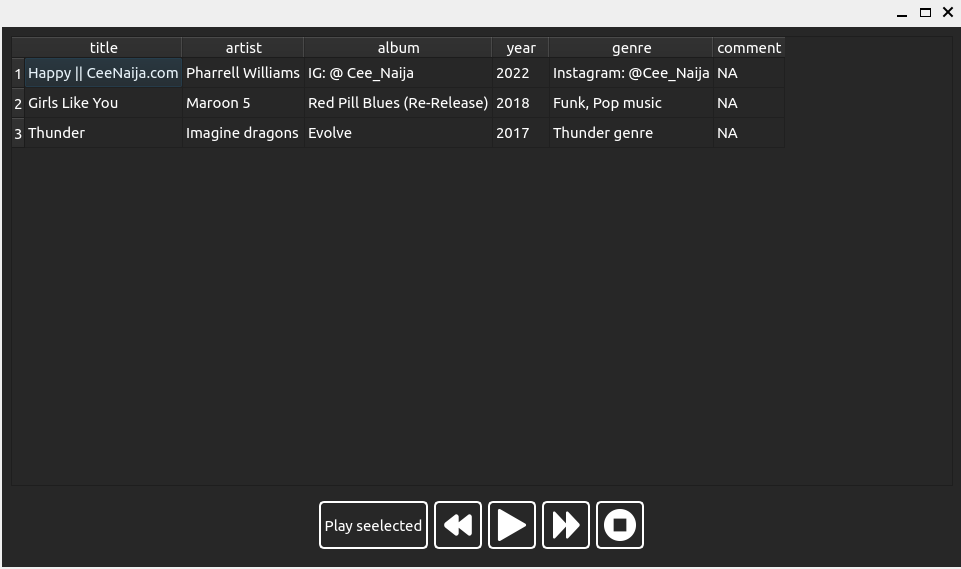
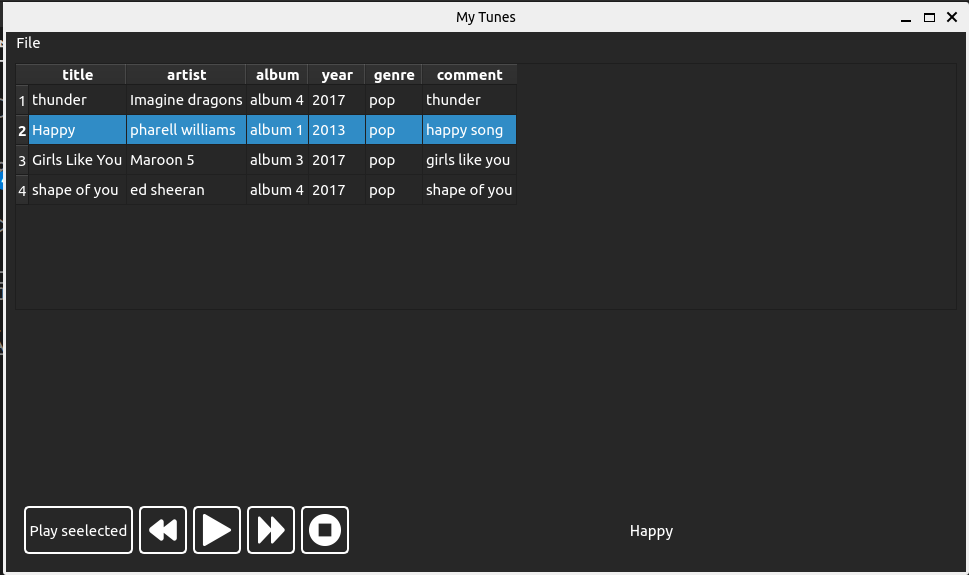
- Added the themes of qt material to the application - Ensuring that content in table widget is always in sentence case

Changed region(s): [[0.0, 0.0, 1.0, 1.0], [0.7492, 0.1793, 0.7804, 0.239], [0.3746, 0.3286, 0.4058, 0.3585]]

diff --git a/src/ui/mainwindow.py b/src/ui/mainwindow.py
@@ -1,5 +1,7 @@
-from PyQt5.QtWidgets import QMainWindow, QMenu, QAction, QMenuBar, QApplication, QFileDialog
+from PyQt5.QtWidgets import QMainWindow, QMenu, QAction, QMenuBar, QApplication
 from PyQt5.QtGui import QFontDatabase
+
+from qt_material import apply_stylesheet, list_themes
 
 from ui.mainwidget import MainWidget
 
@@ -57,12 +59,27 @@ class MainWindow(QMainWindow):
 
         self.menubar.addMenu(self.fileMenu)
 
+        self.themeMenu = QMenu("Theme")
+
+        self.themeActions = []
+        
+        for themeName in list_themes():
+            self.themeActions.append(QAction(themeName))
+            self.themeMenu.addAction(self.themeActions[-1])
+            self.themeActions[-1].triggered.connect(lambda _, x=themeName : self.setTheme(x))
+
+        self.menubar.addMenu(self.themeMenu)
+
         self.setMenuBar(self.menubar)
 
         self.openSongAction.triggered.connect(self.mainWidget.openAndPlayAMp3)
         self.exitAppAction.triggered.connect(self.closeAppMenuAction)
         self.addSongAction.triggered.connect(self.mainWidget.addSong)
         self.deleteSongAction.triggered.connect(self.mainWidget.deleteSong)
+
+    def setTheme(self, theme):
+        apply_stylesheet(self.app, theme)
+        self.mainWidget.topWidget.resizeColumnsToContents()
 
     def closeAppMenuAction(self):
         self.closeEvent(0)

diff --git a/src/ui/topwidget.py b/src/ui/topwidget.py
@@ -19,6 +19,7 @@ class TopWidget(QTableWidget):
         self.cellClicked.connect(self.handleCellClicked)
         self.setAcceptDrops(True)
         self.setSizePolicy(QSizePolicy.Expanding, QSizePolicy.Expanding)
+        self.setSelectionMode(QTableWidget.SingleSelection)
 
     def refreshPage(self, songs):
         self.songs = songs
@@ -37,10 +38,10 @@ class TopWidget(QTableWidget):
             songDataFromDatabase = self.databaseObject.getSongData(song)
 
             if len(songDataFromDatabase) != 0:
-                self.labelNames.append(songDataFromDatabase[0])
+                self.labelNames.append([x.capitalize() for x in songDataFromDatabase[0]])
                 toWrite = songDataFromDatabase[0]
             else:
-                songDataFromFile = MusicEventHandler.getSongData(song)
+                songDataFromFile = [x.capitalize() for x in MusicEventHandler.getSongData(song)]
                 self.databaseObject.writeSongDataToTable(song, *songDataFromFile)
                 self.labelNames.append(songDataFromFile)
 

diff --git a/src/ui/deleteSongWidget.py b/src/ui/deleteSongWidget.py
@@ -21,8 +21,7 @@ class DeleteSongWidget(QDialog):
         self.deleteSongButton.clicked.connect(self.deleteSongFromMenuButtonAction)
 
         screenSize = QApplication.primaryScreen().size() 
-        self.resize(screenSize.width() // 2, screenSize.height() // 2)
-
+        
     def deleteSongFromMenuButtonAction(self):
         self.mainWidget.selectedEntries.extend([x.text() for x in self.listOfSongs.selectedItems()])
         self.accept()

diff --git a/src/ui/mainwidget.py b/src/ui/mainwidget.py
@@ -119,7 +119,7 @@ class MainWidget(QWidget):
     def changeSongMetaData(self, item):
         songName = self.getSongs()[item.row()]
         rowContent = MusicEventHandler.getSongData(songName)
-        
+        item.setText(item.text().capitalize())
         rowContent[item.column()] = item.text()
         MusicEventHandler.writeDataToSong(songName, *rowContent)
         self.databaseObject.writeSongDataToTable(songName, *rowContent)

diff --git a/README.md b/README.md
@@ -31,7 +31,7 @@ python3 src/main.py
 
 * Current look
 
-![alt text](data/images/application.png)
+![alt text](image.png)
 
 * Select and use play selected to play song of choice or play in normal way using play button.
 * Can edit meta data by just editing in the application.
@@ -44,5 +44,8 @@ python3 src/main.py
 | To implement to store and use sqlite database for meta data and comments | Done |
 | To implement a feature that shows which song is currently being played by the player | Done |
 | To add a feature for adding or deleting a song | Done |
-| To implement the other menu requirements like playing a song not in library in close button |Done |
-| Drag and drop feature to implement add songs | Not started |
+| To implement the other menu requirements like playing a song not in library in close button | Done |
+| Drag and drop feature to implement add songs | Done |
+| Song name should be above buttons and keep buttons in bottom widget center aligned only | started |
+| Make table ui pretty | not started |
+| Implement the right click functionality to add/delete songs | not started |
